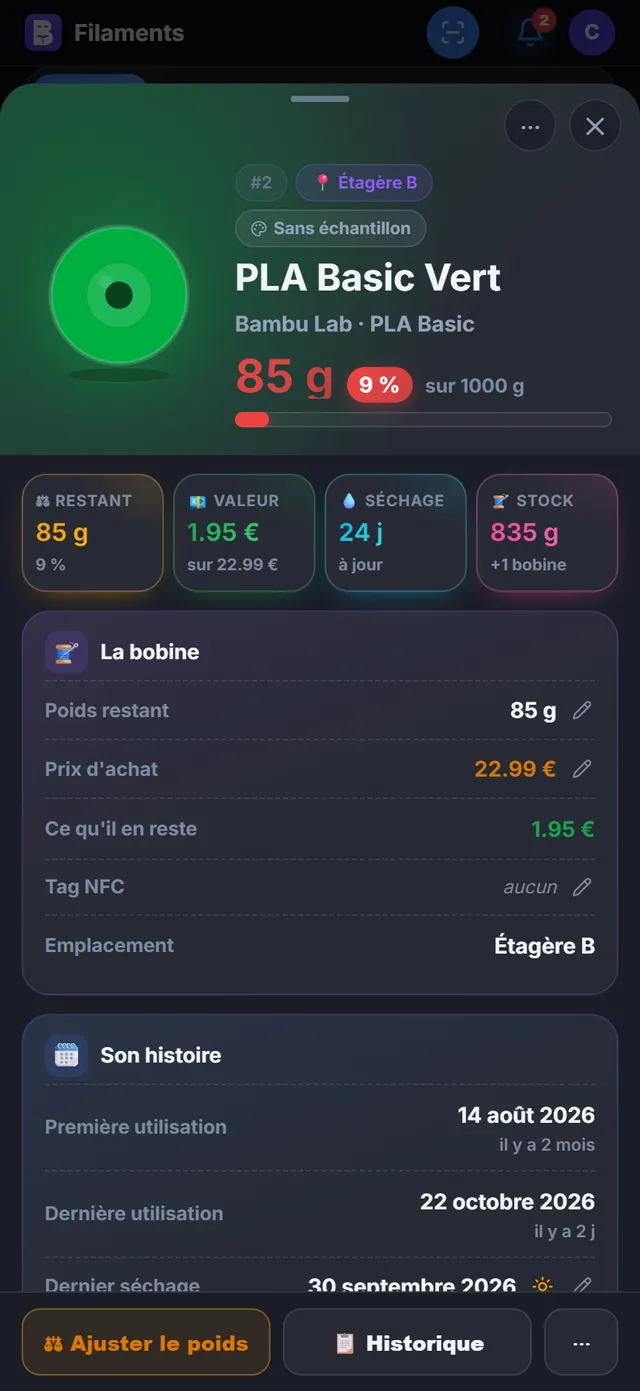
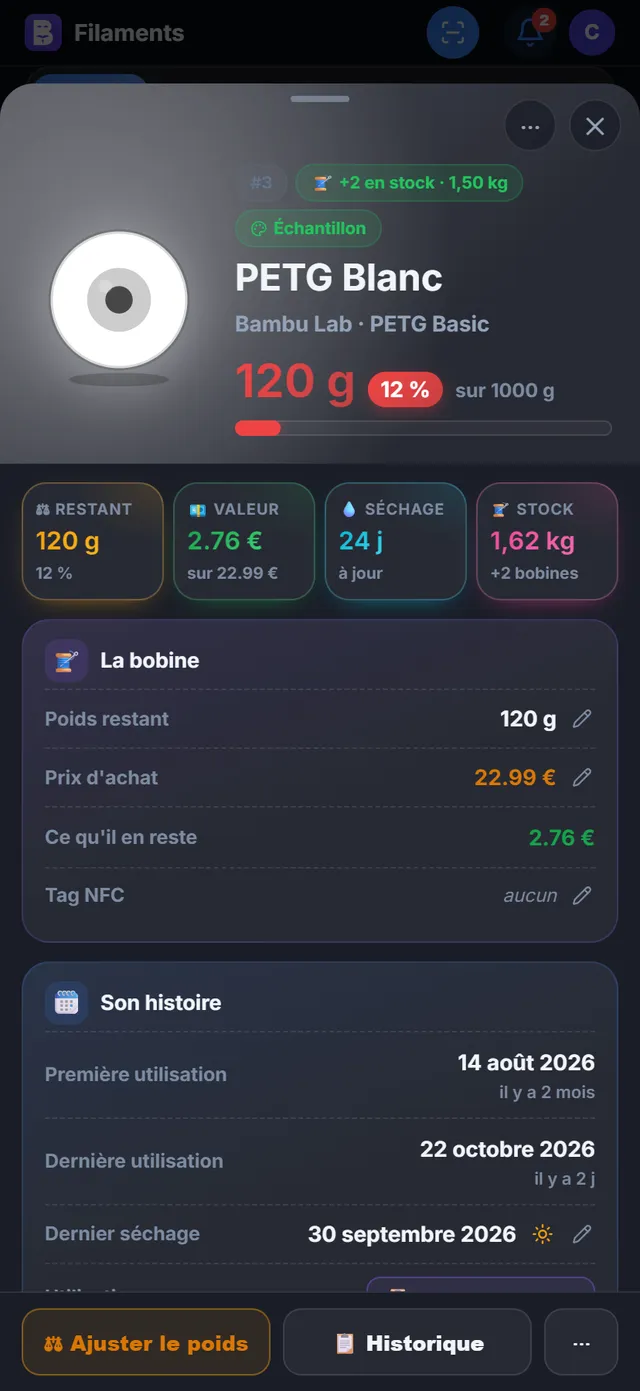
Bobines : combien d'autres bobines du même filament sont en stock, sur la carte et en tête de fiche
Pastille verte +N en coin de la carte (leur poids au survol), « 🧵 +N en stock · poids »
en tête de la fiche. Le compte d'une bobine archivée ne retranche plus la bobine
elle-même, qui n'est pas en stock. Guide mis à jour.

diff --git a/backend/guide/pages/filaments.html b/backend/guide/pages/filaments.html
@@ -51,7 +51,7 @@
     <p>Chaque tuile montre, de haut en bas :</p>
     <ul>
       <li>une carte teintée de la couleur du filament (grise pour un filament blanc ou très clair, pour qu'il reste visible) ;</li>
-      <li>le sous-type en petites capitales (« PLA BASIC »), et 💧 dans le coin si la bobine est à sécher ;</li>
+      <li>le sous-type en petites capitales (« PLA BASIC »), 💧 en haut à droite si la bobine est à sécher, et en haut à gauche une pastille verte <span class="ui">+2</span> quand d'autres bobines de ce filament sont en stock (leur poids au survol) ;</li>
       <li>le dessin d'une bobine à la couleur du filament (damier derrière si le filament est translucide) ;</li>
       <li>le poids restant en couleur (« 760 g », ou « — » s'il est inconnu) et son pourcentage en pastille, puis une jauge : verte au-dessus de 60 %, orange, orange foncé, puis rouge sous 15 % ; dessous « sur 1000 g » ;</li>
       <li>le nom, la marque, et l'emplacement en pastille « 📍 Étagère B » quand il est connu.</li>
@@ -137,7 +137,7 @@
     <h4>En haut : la bobine en vedette</h4>
     <p>Le dessin de la bobine sur un fond de sa couleur, puis des pastilles :</p>
     <ul>
-      <li>son numéro (<span class="ui">#26</span>), <span class="ui">Archivée</span> si elle l'est, et l'emplacement (<span class="ui">📍 AMS-B slot 1</span> ou <span class="ui">📍 Étagère B</span>) ;</li>
+      <li>son numéro (<span class="ui">#26</span>), <span class="ui">Archivée</span> si elle l'est, l'emplacement (<span class="ui">📍 AMS-B slot 1</span> ou <span class="ui">📍 Étagère B</span>), et <span class="ui">🧵 +2 en stock · 1,50 kg</span> en vert quand d'autres bobines de ce filament sont en stock ;</li>
       <li>un badge de séchage quand il le faut : <span class="ui">Séchage nécessaire</span> (bleu ciel, jamais séchée ou délai dépassé), <span class="ui">Séchage dans 12 j</span> (orange, délai atteint dans moins de 30 jours) ou <span class="ui">Séchage aujourd'hui</span>. Pour un admin, ce badge porte un petit soleil : le toucher ouvre <a href="#filaments-sechee">Séchée aujourd'hui</a> ;</li>
       <li><span class="ui">Échantillon</span> (vert) si la plaquette du nuancier existe, sinon <span class="ui">Sans échantillon</span> (gris).</li>
     </ul>

diff --git a/frontend/src/pages/Filaments.jsx b/frontend/src/pages/Filaments.jsx
@@ -1016,6 +1016,7 @@ export function SpoolBottomSheet({ spool, onClose, onArchive, onDelete }) {
       <FHero colors={colorsList} type={spool.filament_multicolor_type} color={main} name={name}
         chips={[fChip(`#${spool.id}`, "#64748B"), spool.archived && fChip("Archivée", "#94a3b8"),
           spool.location && fChip(`📍 ${spool.location}`, "#8B5CF6"),
+          spool.sibling_count > 0 && fChip(`🧵 +${spool.sibling_count} en stock${spool.sibling_weight_g ? ` · ${fmtStock(spool.sibling_weight_g)}` : ""}`, "#22C55E"),
           dryChip, fChip(<><Palette size={11}/>{spool.filament_swatch ? "Échantillon" : "Sans échantillon"}</>, spool.filament_swatch ? "#22c55e" : "#94a3b8")]}
         sub={<>
           {spool.filament_translated_name && spool.filament_name && spool.filament_name !== spool.filament_translated_name &&
@@ -1294,6 +1295,11 @@ function SpoolCard({ s, colorsList, onClick, menu }) {
         {sub || " "}
       </p>
       {s.needs_drying && <span data-tip="À sécher" style={{ position:"absolute", top:5, right:6, fontSize:10 }}>💧</span>}
+      {/* d'autres bobines du meme filament en stock : combien, en coin */}
+      {s.sibling_count > 0 && <span data-tip={`${s.sibling_count} autre${s.sibling_count > 1 ? "s" : ""} bobine${s.sibling_count > 1 ? "s" : ""} de ce filament en stock`
+        + (s.sibling_weight_g ? ` (${fmtStock(s.sibling_weight_g)})` : "")}
+        style={{ position:"absolute", top:6, left:6, fontSize:9, fontWeight:900, padding:"1px 6px", borderRadius:20, color:"#fff",
+          background:"linear-gradient(135deg, #22C55E, #16A34A)", boxShadow:"0 2px 6px -2px #16A34A" }}>+{s.sibling_count}</span>}
 
       {/* La bobine, meme dessin qu'au slot AMS de l'accueil */}
       <div style={{ display:"flex", justifyContent:"center", margin:"3px 0 0", filter:`drop-shadow(0 6px 10px ${main}55)` }}>

diff --git a/backend/app/api/v1/routes/filaments.py b/backend/app/api/v1/routes/filaments.py
@@ -1261,9 +1261,10 @@ def _spool_out(s: Spool, sib: tuple | None = None) -> SpoolOut:
         external_spool_id=s.external_spool_id,
         found_mode=getattr(s, "found_mode", None),
         # On retranche la bobine courante : l'interface veut savoir ce qu'il
-        # reste A COTE, pas le total du filament.
-        sibling_count=(max(0, sib[0] - 1) if sib else None),
-        sibling_weight_g=(round(max(0.0, sib[1] - (s.remaining_weight_g or 0)), 1)
+        # reste A COTE, pas le total du filament. Une bobine archivee n'est pas
+        # dans le compte (actives seulement) : rien a retrancher (25/10/2026).
+        sibling_count=(max(0, sib[0] - (0 if s.archived else 1)) if sib else None),
+        sibling_weight_g=(round(max(0.0, sib[1] - (0 if s.archived else (s.remaining_weight_g or 0))), 1)
                           if sib else None),
         first_used_at=s.first_used_at,
         last_used_at=s.last_used_at,
